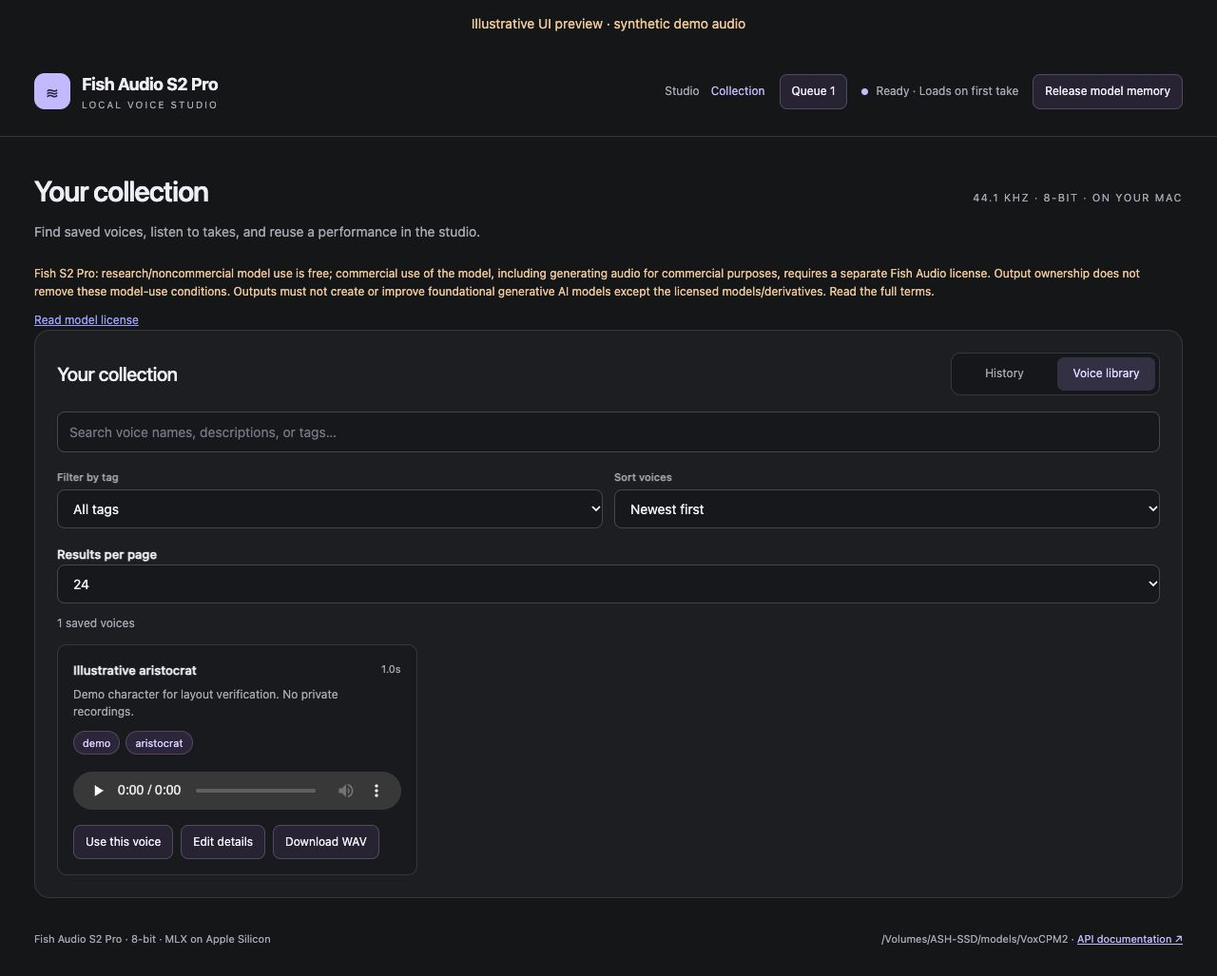
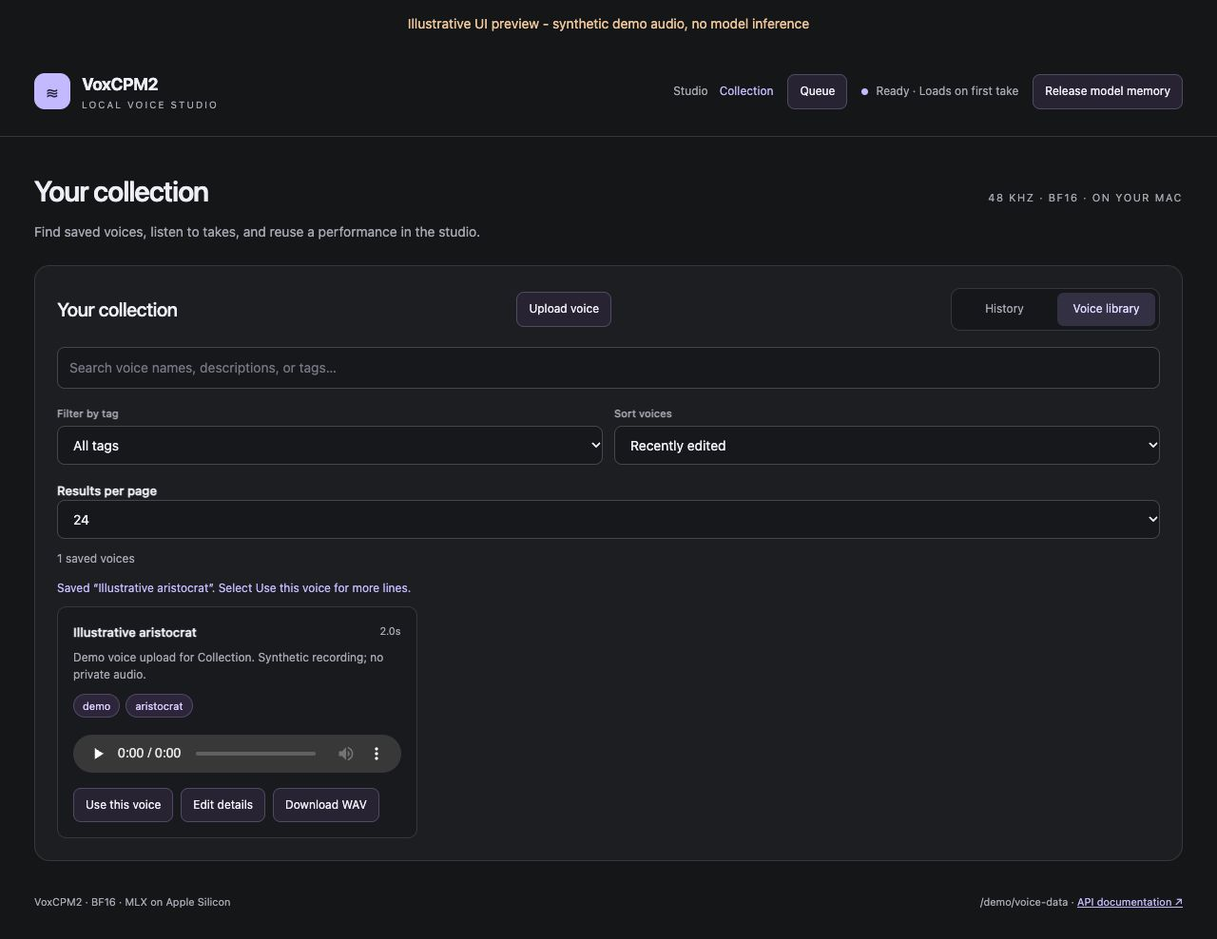
Upload voices directly into Collection and document full-page UI views

diff --git a/ui/index.html b/ui/index.html
@@ -24,7 +24,7 @@ html[data-page="collection"] #cards{max-height:none;grid-template-columns:repeat
 <aside id="license-notice" class="notice" hidden><p id="license-text"></p><a id="license-link" target="_blank" rel="noopener">Read model license</a></aside><p class="error" id="page-error" role="alert" hidden></p><div class="layout" id="studio-layout"><form id="form" class="panel">
 <div class="tabs" role="tablist" aria-label="Voice source"><button type="button" role="tab" data-mode="design" aria-selected="true">Design a voice</button><button type="button" role="tab" data-mode="saved" aria-selected="false">Saved voice</button><button type="button" role="tab" data-mode="upload" aria-selected="false">Reference audio</button><button type="button" role="tab" data-mode="preset" aria-selected="false" hidden>Expressive presets</button></div>
 <section id="design-panel"><label for="description">Voice description</label><textarea id="description" maxlength="1500" placeholder="A woman in her forties, low register, warm and slightly husky, with a subtle British accent.">A woman in her forties, low register, warm and slightly husky, with a subtle British accent.</textarea><p class="hint">Describe age, accent, pitch, and vocal texture. Save a sample to reuse the character.</p></section>
-<section id="saved-panel" hidden><label for="voice">Choose a character</label><select id="voice"><option value="">Choose a saved voice…</option></select><p class="hint" id="voice-hint">Save a generated take below to build your voice library.</p><button type="button" class="plain field" id="browse-voices">Browse voice catalog ↗</button><audio id="voice-preview" controls preload="none" hidden></audio></section>
+<section id="saved-panel" hidden><label for="voice">Choose a character</label><select id="voice"><option value="">Choose a saved voice…</option></select><p class="hint" id="voice-hint">Save a generated take below to build your voice library.</p><button type="button" class="plain field" id="browse-voices">Browse voice catalog ↗</button> <button type="button" class="plain field" id="upload-saved-voice">Upload voice to Collection</button><audio id="voice-preview" controls preload="none" hidden></audio></section>
 <section id="upload-panel" hidden><div class="reference"><label for="reference">Choose a voice reference</label><p class="hint">5–15 seconds of clean speech works best. WAV, FLAC, or MP3; 1–30 seconds, up to 25 MB.</p><input id="reference" type="file" accept="audio/*"><p class="hint" id="reference-info"></p><audio id="reference-preview" controls hidden></audio><button type="button" class="secondary" id="save-reference" hidden>Save reference to voice library</button></div></section>
 <section id="preset-panel" hidden><label for="preset-voice">Expressive preset voice</label><select id="preset-voice"></select><p class="hint">Qwen CustomVoice keeps a built-in speaker while following emotion and accent directions. Save a generated take to reuse its recording.</p><div class="field" id="steering-field" hidden><label for="steering-emotion">Emotion steering · experimental</label><select id="steering-emotion"><option value="">Off · prompt direction only</option></select><div class="field" id="steering-strength-field" hidden><label for="steering-strength">Steering strength</label><input type="number" id="steering-strength" min="0" max="12" step="1" value="8"></div><p class="hint">Adds a learned emotion direction inside the model. Higher strengths can alter timbre or pronunciation. Available for preset voices; evaluate by listening.</p></div></section>
 <div class="field" id="reference-options" hidden><div id="clone-mode-field" hidden><label for="clone-mode">Reference conditioning</label><select id="clone-mode"><option value="auto" selected>Auto · follow recorded performance when transcribed</option><option value="reference">Voice reference · flexible delivery</option><option value="combined">Combined identity + performance</option><option value="continuation">Continue performance · transcript required</option></select><p class="hint">Combined uses this same recording for identity and performance; continuation uses its recorded context. Both require exact words and disable new directions. Save named same-speaker mood variants in the library; audition their accent first.</p></div><div class="field" id="transcript-field"><label for="ref-text" id="ref-text-label">Exact reference transcript (optional)</label><textarea id="ref-text" maxlength="3000" placeholder="Words spoken in this recording; leave blank to use the saved transcript"></textarea><p class="hint" id="transcript-hint">An exact transcript improves Qwen cloning. Without one, Qwen uses speaker embedding mode.</p></div></div>
@@ -35,9 +35,9 @@ html[data-page="collection"] #cards{max-height:none;grid-template-columns:repeat
 <label style="display:flex;align-items:start;gap:10px;margin:16px 0"><input id="generate-immediately" type="checkbox" checked style="width:auto;margin-top:5px">Generate immediately (next available slot)</label><p class="hint">Immediate takes run ahead of ordinary pending takes, in arrival order. A running take finishes first. Uncheck to join the normal FIFO queue.</p>
 <button class="primary" id="generate" type="submit"><span>Generate speech</span><span aria-hidden="true">↗</span></button><p class="shortcut">⌘ Enter to generate · All audio stays local</p><p class="error" id="error" role="alert" hidden></p>
 </form><div><section class="panel output" aria-label="Generated audio"><div class="output-top"><span class="eyebrow">The listening room</span><button type="button" class="plain" id="new-seed">Try a new seed ↗</button></div><div class="empty" id="empty"><div class="symbol" aria-hidden="true">▂▅▃▇▂▆▃</div><h2>Your next voice starts here.</h2><p>Generate a take, listen to the performance, then save the voice for your next scene.</p></div><div class="working" id="working" hidden><div class="spinner"></div><strong id="stage">Generating speech</strong><p id="elapsed">Starting…</p><p>The first take also loads the model from the SSD.</p></div><div id="result" hidden><h2 id="result-title">Your latest take</h2><p class="hint" id="direction-summary" hidden></p><canvas id="waveform" aria-label="Waveform of generated speech" role="img"></canvas><audio id="player" controls preload="metadata"></audio><div class="result-meta"><span id="metrics"></span><span id="result-seed"></span></div><p class="notice" id="truncated" hidden>The audio reached its length limit. Try a shorter passage or raise the audio limit.</p><div class="result-tools"><a id="download" class="secondary" download>Download WAV</a><button type="button" class="secondary" id="reuse">Reuse settings</button><button type="button" class="secondary" id="adjust-pauses">Adjust pauses</button></div><div class="save-row"><label for="voice-name" class="sr-only">Name this voice</label><input id="voice-name" maxlength="100" placeholder="Name this character voice…"><button type="button" class="secondary" id="save-voice">Save to voice library</button></div><p class="hint" id="save-hint">Use a clean, natural take as your character reference. Up to the first 30 seconds are saved.</p><p id="path" class="path"></p></div></section></div></div>
-<section class="panel library" id="voice-catalog"><div class="section-top"><h2>Your collection</h2><div class="tabs" role="tablist" aria-label="Collection"><button type="button" role="tab" data-collection="history" aria-selected="true">History</button><button type="button" role="tab" data-collection="voices" aria-selected="false">Voice library</button></div></div><label class="sr-only" for="search">Search your collection</label><input class="search" id="search" type="search" placeholder="Search text, voice descriptions, or emotions…"><div class="library-filters" id="voice-filters" hidden><div><label for="tag-filter">Filter by tag</label><select id="tag-filter"><option value="">All tags</option></select></div><div><label for="voice-sort">Sort voices</label><select id="voice-sort"><option value="newest">Newest first</option><option value="updated">Recently edited</option><option value="name">Name A–Z</option></select></div></div><div class="field" style="margin:0 0 12px"><label for="page-size">Results per page</label><select id="page-size"><option>12</option><option selected>24</option><option>48</option><option>100</option></select></div><p class="catalog-count" id="catalog-count" hidden></p><p class="voice-notice" id="voice-notice" role="status" hidden></p><div id="cards" class="cards"></div><div class="pagination" id="voice-pagination" hidden><button type="button" class="secondary" id="voice-prev">Previous</button><span class="tiny" id="voice-page-label"></span><button type="button" class="secondary" id="voice-next">Next</button></div><p class="hint" id="collection-empty">Your generated takes will appear here.</p></section></main>
+<section class="panel library" id="voice-catalog"><div class="section-top"><h2>Your collection</h2><button type="button" class="secondary" id="upload-voice">Upload voice</button><div class="tabs" role="tablist" aria-label="Collection"><button type="button" role="tab" data-collection="history" aria-selected="true">History</button><button type="button" role="tab" data-collection="voices" aria-selected="false">Voice library</button></div></div><label class="sr-only" for="search">Search your collection</label><input class="search" id="search" type="search" placeholder="Search text, voice descriptions, or emotions…"><div class="library-filters" id="voice-filters" hidden><div><label for="tag-filter">Filter by tag</label><select id="tag-filter"><option value="">All tags</option></select></div><div><label for="voice-sort">Sort voices</label><select id="voice-sort"><option value="newest">Newest first</option><option value="updated">Recently edited</option><option value="name">Name A–Z</option></select></div></div><div class="field" style="margin:0 0 12px"><label for="page-size">Results per page</label><select id="page-size"><option>12</option><option selected>24</option><option>48</option><option>100</option></select></div><p class="catalog-count" id="catalog-count" hidden></p><p class="voice-notice" id="voice-notice" role="status" hidden></p><div id="cards" class="cards"></div><div class="pagination" id="voice-pagination" hidden><button type="button" class="secondary" id="voice-prev">Previous</button><span class="tiny" id="voice-page-label"></span><button type="button" class="secondary" id="voice-next">Next</button></div><p class="hint" id="collection-empty">Your generated takes will appear here.</p></section></main>
 <dialog id="queue-dialog" class="voice-editor queue-dialog" aria-labelledby="queue-title"><div class="section-top"><h2 id="queue-title">Generation queue</h2><div class="dialog-actions" style="margin:0"><button type="button" class="secondary" id="queue-clear">Clear pending</button><button type="button" class="secondary" id="close-queue" aria-label="Close queue">Close</button></div></div><p class="hint">Only the startup backend executes. Other backends wait until selected at startup. Removing pending takes preserves completed History and never cancels running speech.</p><div class="two"><div><label for="queue-status">Show</label><select id="queue-status"><option value="pending">Pending and running</option><option value="error">Failed</option><option value="done">Completed</option><option value="all">All entries</option></select></div><div><label for="queue-size">Entries per page</label><select id="queue-size"><option>12</option><option selected>24</option><option>100</option></select></div></div><p id="queue-count" class="hint" role="status"></p><div id="queue-entries" class="cards"></div><div class="pagination"><button type="button" class="secondary" id="queue-prev">Previous</button><span id="queue-page" class="tiny"></span><button type="button" class="secondary" id="queue-next">Next</button></div><p class="error" id="queue-error" role="alert" hidden></p></dialog>
-<dialog id="voice-editor" class="voice-editor" aria-labelledby="voice-editor-title"><form id="voice-editor-form"><h2 id="voice-editor-title">Save a voice</h2><p class="hint" id="voice-editor-hint">Name this character, describe it, and add tags so you can find it later.</p><label for="edit-voice-name">Name</label><input id="edit-voice-name" maxlength="100" required placeholder="Transylvanian aristocrat"><label for="edit-voice-description">Description</label><textarea id="edit-voice-description" maxlength="2000" placeholder="A cultured baritone for the count. Calm, courteous, and quietly menacing."></textarea><p class="hint">Catalog notes. The saved reference recording defines the voice.</p><div id="edit-transcript-field"><label for="edit-transcript">Exact recording transcript</label><textarea id="edit-transcript" maxlength="3000" placeholder="Optional transcript for reference cloning"></textarea><p class="hint">Must match this saved recording exactly. Leave empty if uncertain.</p></div><label for="edit-voice-tags">Tags</label><input id="edit-voice-tags" placeholder="romanian, baritone, aristocrat, villain"><p class="hint">Separate tags with commas. Up to 20 tags, 40 characters each.</p><p class="error" id="voice-editor-error" role="alert" hidden></p><div class="dialog-actions"><button type="button" class="secondary" id="voice-editor-cancel">Cancel</button><button type="submit" class="primary" id="voice-editor-save">Save voice</button></div></form></dialog>
+<dialog id="voice-editor" class="voice-editor" aria-labelledby="voice-editor-title"><form id="voice-editor-form"><h2 id="voice-editor-title">Save a voice</h2><p class="hint" id="voice-editor-hint">Name this character, describe it, and add tags so you can find it later.</p><div id="voice-upload-field" hidden><label for="voice-upload-file">Voice recording</label><input type="file" id="voice-upload-file" accept="audio/*"><p class="hint">Upload 1–30 seconds of clear speech, up to 25 MB. The original file is preserved. This saves a reusable voice directly to Collection.</p></div><label for="edit-voice-name">Name</label><input id="edit-voice-name" maxlength="100" required placeholder="Transylvanian aristocrat"><label for="edit-voice-description">Description</label><textarea id="edit-voice-description" maxlength="2000" placeholder="A cultured baritone for the count. Calm, courteous, and quietly menacing."></textarea><p class="hint">Catalog notes. The saved reference recording defines the voice.</p><div id="edit-transcript-field"><label for="edit-transcript">Exact recording transcript</label><textarea id="edit-transcript" maxlength="3000" placeholder="Optional transcript for reference cloning"></textarea><p class="hint">Must match this saved recording exactly. Leave empty if uncertain.</p></div><label for="edit-voice-tags">Tags</label><input id="edit-voice-tags" placeholder="romanian, baritone, aristocrat, villain"><p class="hint">Separate tags with commas. Up to 20 tags, 40 characters each.</p><p class="error" id="voice-editor-error" role="alert" hidden></p><div class="dialog-actions"><button type="button" class="secondary" id="voice-editor-cancel">Cancel</button><button type="submit" class="primary" id="voice-editor-save">Save voice</button></div></form></dialog>
 <dialog id="pause-editor" class="voice-editor" aria-labelledby="pause-editor-title"><form id="pause-editor-form">
 <h2 id="pause-editor-title">Adjust pauses</h2><p class="hint">Listen first, then mark the entire quiet gap between phrases. This creates a separate version and preserves your original recording. No sentence boundaries are selected automatically.</p>
 <p id="pause-source-text" class="hint"></p><audio id="pause-player" controls preload="metadata"></audio><p class="hint" id="pause-current-time">Playback: 0.000 s</p>

diff --git a/ui/app.js b/ui/app.js
@@ -5,7 +5,7 @@ if(collectionPage){$('page-title').textContent='Your collection';$('page-descrip
 $(collectionPage?'catalog-link':'studio-link').setAttribute('aria-current','page');
 let pageSize = 24, caps=null, storageKey='voice-studio', historyPage={data:[],total:0,has_more:false}, pendingKey=null;
 let voicePage = {data: [], total: 0, has_more: false};
-let catalogOffset = 0, searchTimer = null, catalogRequest = 0, voiceEditor = null;
+let catalogOffset = 0, searchTimer = null, catalogRequest = 0, voiceEditor = null, voiceSaving = false;
 const presets={natural:'Natural, conversational delivery with relaxed pacing.',joy:'Excited and joyful, with an audible smile and lively pacing.',sadness:'Quiet sadness and disappointment, speaking slowly with a trembling voice.',anger:'Angry and frustrated, with firm emphasis and a tense, forceful delivery.',fear:'Frightened and anxious, with a trembling voice and urgent, uneven pacing.',relief:'Deeply relieved, softening into warmth with a gentle exhale.',sarcasm:'Dry, understated sarcasm with deliberate pauses and restrained emphasis.',whisper:'A soft, intimate whisper, speaking gently and slowly.',custom:''};
 async function api(path,options={}){const response=await fetch(path,options);if(!response.ok){let body;try{body=await response.json()}catch{}throw Error(typeof body?.detail==='string'?body.detail:body?.detail?.[0]?.msg||`Request failed (${response.status})`)}return response.json()}
 function post(path,body){return api(path,{method:'POST',headers:{'Content-Type':'application/json'},body:JSON.stringify(body)})}
@@ -307,9 +307,10 @@ function chooseVoice(row, focus = true) {
 }
 function openVoiceEditor(context) {
   voiceEditor = context;
-  $('voice-editor-title').textContent = context.edit_id ? 'Edit voice details' : 'Save a voice';
-  $('voice-editor-save').textContent = context.edit_id ? 'Save changes' : 'Save voice';
-  $('voice-editor-hint').textContent = context.edit_id ?
+  $('voice-editor-title').textContent = context.upload ? 'Upload a voice' : context.edit_id ? 'Edit voice details' : 'Save a voice';
+  $('voice-editor-save').textContent = context.upload ? 'Upload to Collection' : context.edit_id ? 'Save changes' : 'Save voice';
+  $('voice-upload-field').hidden=!context.upload;$('voice-upload-file').required=!!context.upload;$('voice-upload-file').value='';
+  $('voice-editor-hint').textContent = context.upload ? 'Add your own recording to Collection, with a name, description, tags and optional exact transcript.' : context.edit_id ?
     'Update the catalog details. The saved recording stays the same.' :
     'Save named performance variants of the same speaker with mood tags and the exact transcript. Choose the desired recorded delivery before combined cloning.';
   $('edit-voice-name').value = context.name || '';
@@ -319,9 +320,15 @@ function openVoiceEditor(context) {
   $('voice-editor-error').hidden = true;
   $('voice-editor').showModal(); $('edit-voice-name').focus();
 }
+$('upload-voice').onclick=$('upload-saved-voice').onclick=()=>openVoiceEditor({upload:true});
+$('voice-upload-file').onchange=()=>{
+ const file=$('voice-upload-file').files[0];
+ if(file&&!$('edit-voice-name').value.trim())$('edit-voice-name').value=file.name.replace(/\.[^.]+$/,'').slice(0,100);
+};
 $('voice-editor-cancel').onclick = () => $('voice-editor').close();
+$('voice-editor').addEventListener('cancel',event=>{if(voiceSaving)event.preventDefault()});
 $('voice-editor-form').onsubmit = async event => {
-  event.preventDefault(); if (!voiceEditor) return;
+  event.preventDefault(); if (!voiceEditor||voiceSaving) return;
   const context = voiceEditor;
   const details = {name: $('edit-voice-name').value.trim(), description: $('edit-voice-description').value.trim(),
     tags: $('edit-voice-tags').value.split(',').map(tag => tag.trim()).filter(Boolean),transcript:$('edit-transcript').value.trim()};
@@ -329,10 +336,19 @@ $('voice-editor-form').onsubmit = async event => {
     $('voice-editor-error').textContent = 'Use up to 20 tags, each no more than 40 characters.';
     $('voice-editor-error').hidden = false; return;
   }
+  voiceSaving=true;const saveLabel=$('voice-editor-save').textContent;
   $('voice-editor-save').disabled = true; $('voice-editor-cancel').disabled = true;
+  if(context.upload)$('voice-editor-save').textContent='Uploading…';
   try {
     let row;
-    if (context.edit_id) row = await api('/api/voices/' + context.edit_id,
+    if(context.upload){
+      const file=$('voice-upload-file').files[0];if(!file)throw Error('Choose a voice recording first.');
+      if(file.size>25*1024*1024)throw Error('Choose a file under 25 MB.');
+      const form=new FormData();form.append('file',file);form.append('name',details.name);form.append('description',details.description);form.append('transcript',details.transcript);
+      for(const tag of details.tags)form.append('tags',tag);
+      row=await api('/api/voices/upload',{method:'POST',body:form});
+    }
+    else if (context.edit_id) row = await api('/api/voices/' + context.edit_id,
       {method: 'PATCH', headers: {'Content-Type': 'application/json'}, body: JSON.stringify(details)});
     else row = await post('/api/voices', {...details, output_id: context.output_id || null, reference_id: context.reference_id || null});
     if (!context.edit_id) {
@@ -350,6 +366,7 @@ $('voice-editor-form').onsubmit = async event => {
   } catch (exc) {
     $('voice-editor-error').textContent = exc.message; $('voice-editor-error').hidden = false;
   } finally {
+    voiceSaving=false;$('voice-editor-save').textContent=saveLabel;
     $('voice-editor-save').disabled = false; $('voice-editor-cancel').disabled = false;
   }
 };

diff --git a/test_contract.py b/test_contract.py
@@ -65,6 +65,42 @@ class ContractTests(unittest.TestCase):
         self.fail('Job did not finish')
     def upload(self,**kw):
         return self.client.post('/api/references',files={'file':('voice.wav',wav(**kw),'audio/wav')})
+    def test_direct_voice_upload_enters_collection_preserves_original_and_is_reusable(self):
+        original=wav(rate=48000,channels=2)
+        response=self.client.post('/api/voices/upload',files={'file':('performance.wav',original,'audio/wav')},
+            data={'name':'  Uploaded aristocrat  ','description':'A cultured, calm baritone.',
+                  'transcript':'My guests. You came.','tags':[' Romanian ','Villain','romanian']})
+        self.assertEqual(response.status_code,201,response.text)
+        voice=response.json();self.assertEqual(voice['name'],'Uploaded aristocrat')
+        self.assertEqual(voice['tags'],['romanian','villain']);self.assertEqual(voice['transcript'],'My guests. You came.')
+        found=self.client.get('/api/voices',params={'q':'uploaded cultured','tag':'ROMANIAN'}).json()
+        self.assertEqual([row['id'] for row in found['data']],[voice['id']])
+        self.assertEqual(self.client.get('/api/voices/'+voice['id']).json(),voice)
+        self.assertEqual(self.client.get('/api/references/'+voice['source_id']+'/original').content,original)
+        with sf.SoundFile(self.root/'voices'/f'{voice["id"]}.wav') as audio:
+            self.assertEqual((audio.samplerate,audio.channels,len(audio)),(16000,1,32000))
+        generated=self.generate(voice_id=voice['id']).json()
+        self.assertEqual(self.finish(generated)['status'],'done')
+        self.assertEqual(str(self.engine.calls[-1][1]),str(self.root/'voices'/f'{voice["id"]}.wav'))
+    def test_direct_voice_upload_rejects_bad_metadata_audio_and_size_without_catalog_entries(self):
+        for details in [{'name':' '},{'name':'Named','tags':['x'*41]}, {'name':'Named','tags':['tag']*21}]:
+            response=self.client.post('/api/voices/upload',files={'file':('voice.wav',wav(),'audio/wav')},data=details)
+            self.assertEqual(response.status_code,422,response.text)
+        for raw in [b'not audio',wav(seconds=0)]:
+            response=self.client.post('/api/voices/upload',files={'file':('bad.wav',raw,'audio/wav')},data={'name':'Named'})
+            self.assertEqual(response.status_code,422,response.text)
+        response=self.client.post('/api/voices/upload',content=b'x',headers={'content-length':str(27*1024*1024)})
+        self.assertEqual(response.status_code,413)
+        self.assertFalse(list((self.root/'voices').iterdir()))
+        self.assertFalse(list((self.root/'references').glob('*.wav')))
+    def test_direct_voice_upload_rolls_back_new_reference_if_catalog_save_fails(self):
+        preserved=self.upload().json();before=set((self.root/'references').rglob('*'))
+        with patch('server.save_voice',side_effect=OSError('simulated catalog write failure')):
+            response=self.client.post('/api/voices/upload',files={'file':('new.wav',wav(),'audio/wav')},data={'name':'Named'})
+        self.assertEqual(response.status_code,422)
+        self.assertEqual(set((self.root/'references').rglob('*')),before)
+        self.assertEqual(self.client.get(preserved['audio_url']).status_code,200)
+        self.assertEqual(self.client.get('/api/voices').json()['total'],0)
     def test_unknown_and_invalid_fields(self):
         for body in [{'speed':2},{'text':' '},{'steps':99},{'voice_id':'../bad'},{'max_tokens':1}]:
             self.assertEqual(self.generate(**body).status_code,422)

diff --git a/server.py b/server.py
@@ -254,6 +254,33 @@ def voices(q: str = Query(default="", max_length=300), tag: str = Query(default=
     return voice_catalog.search(ROOT, q, tag, sort, limit, offset)
 
 
+@app.post('/api/voices/upload',status_code=201,response_model=Voice)
+async def upload_voice(file: UploadFile=File(...),name: str=Form(...,min_length=1,max_length=100),
+                       description: str=Form(default='',max_length=2000),
+                       transcript: str=Form(default='',max_length=3000),tags: list[voice_catalog.Tag]=Form(default=[],max_length=20)):
+    try:
+        details=SaveVoice(name=name,description=description,transcript=transcript,tags=tags)
+    except ValueError as exc:
+        message=exc.errors()[0]['msg'] if hasattr(exc,'errors') else str(exc)
+        raise HTTPException(422,'Invalid voice details: '+message) from None
+    raw=await file.read(25*1024*1024+1)
+    if len(raw)>25*1024*1024:raise HTTPException(413,'Choose a file under 25 MB')
+    def import_voice():
+        reference=storage.preserve_reference(raw,file.filename,details.transcript or '')
+        try:
+            return save_voice(details.model_copy(update={'reference_id':reference['id']}))
+        except BaseException:
+            # Roll back only this new upload if catalog creation fails; preserve all existing data.
+            for path in [ROOT/'references'/f'{reference["id"]}.wav',
+                         ROOT/'references'/f'{reference["id"]}.json',
+                         ROOT/'references/originals'/f'{reference["id"]}.bin']:
+                path.unlink(missing_ok=True)
+            raise
+    try:return await asyncio.to_thread(import_voice)
+    except (OSError,ValueError,RuntimeError) as exc:
+        raise HTTPException(422,'Cannot upload this voice: '+str(exc)) from None
+
+
 @app.get("/api/voice-tags", response_model=TagsPage)
 def voice_tags():
     counts = {}

diff --git a/body_limit.py b/body_limit.py
@@ -9,7 +9,7 @@ class BodyLimit:
     async def __call__(self, scope, receive, send):
         if scope['type'] != 'http' or scope['method'] not in ['POST','PUT','PATCH']:
             return await self.app(scope,receive,send)
-        limit = 26*1024*1024 if scope['path']=='/api/references' else 128*1024
+        limit = 26*1024*1024 if scope['path'] in ('/api/references','/api/voices/upload') else 128*1024
         headers = dict(scope['headers'])
         try:
             declared = int(headers.get(b'content-length',b'0'))

diff --git a/README.md b/README.md
@@ -8,34 +8,25 @@ Read [BACKENDS.md](BACKENDS.md) for the backend matrix, Python environments, con
 
 ## UI preview
 
-The studio at `/` provides voice design/reference inputs and playback. Collection at `/collection` holds searchable History and Voice library pages; the header Queue button opens a popup with persistent generation jobs. Screenshots use illustrative characters and queued requests; private recordings and catalogs are not included.
+Full-page screenshots of the separate Generate and Collection pages, plus the page with Queue open. These use synthetic demo audio, illustrative data and example timings; no private recordings or catalogs are shown.
 
-![Voice studio with a saved reference, model controls, playback, and separate Collection and Queue navigation](docs/images/studio-page.jpg)
+### Generate a line
 
-<details>
-<summary>Voice names, descriptions, transcripts and tags</summary>
+Choose or upload a saved voice, enter the line, then generate and play/download the take.
 
-![Voice editor with a character name, description, exact recording transcript and searchable tags](docs/images/voice-details.png)
+![Full Generate page with an uploaded demo voice, line text, generation controls and playback](docs/images/studio-page.jpg)
 
-</details>
+### Collection
 
-<details>
-<summary>Model-specific delivery controls</summary>
+Search History and Voice library, edit names/descriptions/tags, or use **Upload voice** to add your own recording directly.
 
-Fish S2 Pro offers explicit delivery tags and a preview of the text sent to the model. Other backends show their supported controls in the same studio.
+![Full Collection page with a newly uploaded demo voice and searchable tags](docs/images/collection-page.jpg)
 
-![Advanced settings with configurable extra sentence and comma pauses](docs/images/advanced-pacing.jpg)
+### Queue
 
-</details>
+Open **Queue** from the header on either page. The modal lists jobs with status filters, paging, pending removal/clear and failed-job retry.
 
-<details>
-<summary>Collection page and Queue popup</summary>
-
-![Separate Collection page showing a demo saved voice with tags](docs/images/collection-page.jpg)
-
-![Queue modal with a pending demo take and queue actions](docs/images/queue-modal.jpg)
-
-</details>
+![Full page with the Queue modal showing a completed demo take](docs/images/queue-modal.jpg)
 
 ## Setup and storage
 
@@ -173,3 +164,19 @@ Use the model-specific controls and exact backend-text preview in the studio. Ch
 Fish, IndexTTS, Chatterbox and Qwen reference/preset voices default to longer punctuation pauses: **500 ms extra after sentences and 200 ms extra after commas**. Open **Advanced settings** to change either value or disable **Longer punctuation pauses** for continuous whole-line delivery. The API uses optional `sentence_pause_ms`, `comma_pause_ms` and `punctuation_pauses` under the active model's key, for example `"fish":{"sentence_pause_ms":700,"comma_pause_ms":300}`. See API.md for bounds and exceptions. Phrase synthesis reuses the same voice conditioning but can change flow and take longer. MOSS exposes the same controls as approximate native pacing targets in a single take, with no exact timing promise. Vox and Higgs retain their existing behavior.
 
 **Collection** is a separate page with History, saved voices, search, tags and pagination. Use a voice, open a take or reuse settings to return to the studio. **Queue** opens a modal from either page; pending removal/clear and failed-entry retry use the same durable APIs. No existing media, voices or queued requests are changed by these UI moves.
+
+## Upload a voice to Collection
+
+In **Collection → Voice library**, click **Upload voice**, select the recording, and enter a name, description, tags and optional exact transcript. **Upload to Collection** saves the voice immediately; it appears in search and can be selected with **Use this voice**. The studio's Saved voice tab also has **Upload voice to Collection**. No synthesis, training or model loading is needed for an upload.
+
+The one-step API is `POST /api/voices/upload` with multipart `file`, required `name`, and optional `description`, `transcript` and repeated `tags` fields:
+
+```sh
+curl -s http://localhost:5743/api/voices/upload \
+  -F 'file=@/absolute/path/voice.wav' \
+  -F 'name=Romanian aristocrat' \
+  -F 'description=A cultured, calm baritone.' \
+  -F 'tags=romanian' -F 'tags=aristocrat'
+```
+
+A successful response is HTTP 201 with the saved voice's `id` and `audio_url`. Pass that ID as `voice_id` to generation. Uploads use the existing 25 MiB / 1–30 second limits, retain original bytes, and create a mono 16 kHz working reference on the configured data drive. Reference-capable backends can reuse it; MOSS remains voice design only. Catalog notes do not change the recorded voice. The older `POST /api/references` endpoint still creates a reference; `POST /api/voices` can save that reference or an existing generated take.

diff --git a/API.md b/API.md
@@ -79,6 +79,7 @@ Results include an absolute WAV `path` and `metadata_path`, local `audio_url`, a
 | `GET /api/audio/{outputs\|voices\|references}/{id}?download=true` | Scoped opaque-ID WAV playback/download; no arbitrary file access |
 | `POST /api/references` | Multipart `file`, optional `transcript`; preserves original plus normalized mono 16 kHz PCM16 working copy |
 | `GET /api/references/{id}/original` | Original upload bytes with original filename |
+| `POST /api/voices/upload` | Multipart `file` + required `name`, optional `description`, `transcript`, repeated `tags`; imports audio and immediately saves a searchable Collection voice, returning HTTP 201 Voice |
 | `POST /api/voices` | Save a sample using `name`, optional `description`, `tags`, `transcript`, and exactly one `output_id` or `reference_id` |
 | `GET /api/voices?q=&tag=&sort=newest&limit=24&offset=0` | All query words match across name, description, original design and tags; accent/case insensitive; exact tag filter; sort newest/updated/name |
 | `GET /api/voices/{id}` | Saved voice details and preview URL |
@@ -87,6 +88,21 @@ Results include an absolute WAV `path` and `metadata_path`, local `audio_url`, a
 | `POST /api/model/unload` | Release this server's model when idle |
 
 Upload limits: file <=25 MiB, complete multipart <=26 MiB, decoded 1–30 seconds, 8–96 kHz, mono/stereo, <=5.76M scalar samples. Headers are checked before decoding. WAV/FLAC/MP3 supported by installed libsndfile; unreadable formats return 422. JSON bodies <=128 KiB. Originals remain in `references/originals`; legacy references created before v2 have no preserved original. Nothing is pruned automatically.
+
+### One-step voice upload
+
+`POST /api/voices/upload` accepts multipart form data, validates metadata before creating stored audio, preserves original upload bytes, and creates a reusable voice in the shared Collection. No generation job is created and no model is loaded. It returns HTTP 201 with the same Voice schema as `POST /api/voices`: use its `id` as `voice_id`. The response includes `source_id` / `source_kind`; original bytes remain accessible through `/api/references/{source_id}/original`. Invalid metadata/audio returns 422, oversized uploads 413. If catalog saving fails, only that newly imported reference is rolled back; existing recordings are preserved. A retry is a new upload and may create another voice.
+
+```sh
+curl -s http://localhost:5743/api/voices/upload \
+  -F 'file=@/absolute/path/voice.mp3' \
+  -F 'name=Romanian aristocrat' \
+  -F 'description=A cultured, calm baritone.' \
+  -F 'transcript=Exact words spoken in this reference.' \
+  -F 'tags=romanian' -F 'tags=aristocrat'
+```
+
+Each `tags` form field is one tag; omit optional fields when unused. The upload uses the same file/decoded-audio limits above. Collection's Upload voice dialog and the studio's Saved voice upload action use this endpoint and refresh the catalog after success. The original two-step reference/save API remains supported.
 
 Voice names: 1–100 trimmed characters. Catalog description: <=2000. Tags: <=20, each 1–40 characters, whitespace collapsed, lowercased and deduplicated. PATCH replaces supplied fields; empty description/tags/transcript clears them, null is rejected. Saved samples are mono, up to the first 30 seconds. A transcript is inherited only when the entire generated recording fits within 30 seconds. For longer takes supply the exact excerpt transcript or leave it empty. Catalog notes describe the character; editing them does not alter the recording that conditions reuse. Library has search, exact-tag filter, sort, pagination/page size and explicit reuse.
 

diff --git a/skill/local-voice-studio/SKILL.md b/skill/local-voice-studio/SKILL.md
@@ -77,3 +77,7 @@ Recommended model defaults, sources and evidence limits are in VOICE_QUALITY.md.
 New Fish, IndexTTS, Chatterbox and Qwen reference/fixed-speaker requests resolve optional model-scoped punctuation_pauses=true, sentence_pause_ms=500 (0–3000) and comma_pause_ms=200 (0–1500). Values add silence between separate phrase calls; they are not measured total pauses. Full input limits remain checked, with a maximum of 32 phrases/600 seconds. The same reference, transcript and style settings are reused, but phrase context can change flow/identity. Zero skips that punctuation class; false restores whole-line synthesis. Manual Fish tags and Qwen VoiceDesign default to whole-line; explicit incompatible pacing is rejected. Existing queued settings remain frozen and old idempotency hashes compatible. MOSS uses the same controls as approximate total-pause instruction targets in a single native pass; never claim exact timing or separate phrase generation for MOSS. Vox/Higgs remain unchanged. Check effective.<model-id>.pacing for actual sample insertions or native guidance.
 
 The main studio is /, Collection is /collection (History/Voice library), and Queue is a header popup modal on both pages. Voice/take/reuse actions navigate to the studio with the selected item. Pacing controls live under Advanced settings. Preserve queues and catalogs when changing UI layout.
+
+## Upload recordings directly to Collection
+
+Use multipart POST /api/voices/upload with file and name, optional description/transcript, and repeated tags fields to import a recording and save a Collection voice in one request. HTTP201 returns a Voice; use its id as voice_id and preview its audio_url. Preserve the exact reference transcript or leave it empty if unknown. Limits remain 25 MiB, 1–30 seconds, 8–96 kHz, mono/stereo; original bytes are retained under references/originals and the working voice is normalized to mono16kHz. Uploads do not load/train a model or create a synthesis queue job. The UI action is Collection → Voice library → Upload voice, also available from the studio Saved voice tab. POST /api/references remains a reference import; POST /api/voices saves an already imported reference or generated take. All stored recordings stay private and on the configured data drive. Full-page README screenshots use only synthetic demo data.
